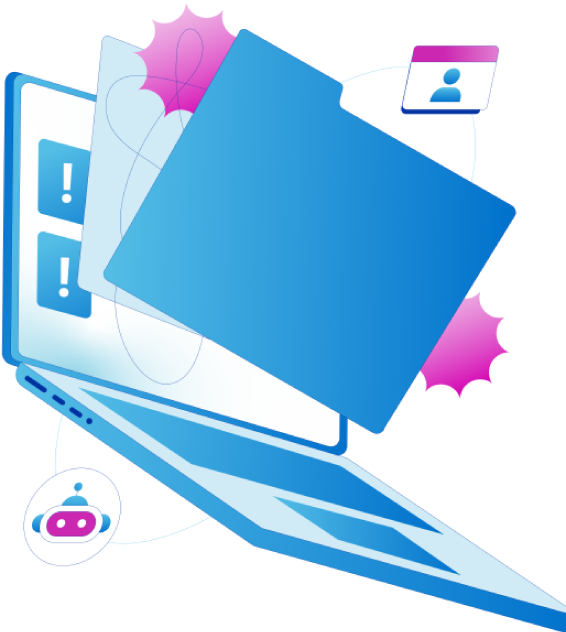
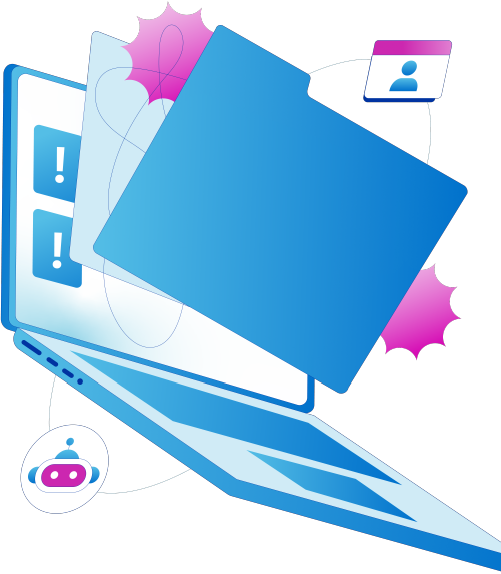
Update question photos

diff --git a/quiz-data.js b/quiz-data.js
@@ -13,7 +13,7 @@ const questions = [
     {
         id: 1,
         stage: 1,
-        img: `<img src="assets/sidSailPoint-inheritedChaos.png" style="max-width:572px"/>`,
+        img: `<img src="assets/sidSailPoint-inheritedChaos.png" style="max-width:510px"/>`,
         eyeBrow: 'inherited chaos',
         scenario: `
         <h3 class="poppins-semibold">Scenario</h3>
@@ -52,7 +52,7 @@ const questions = [
     {
         id: 2,
         stage: 2,
-        img: `<img src="assets/sidsailpoint-trustedpartner.png"/>`,
+        img: `<img src="assets/sidsailpoint-trustedpartner.png" style="max-width:566px"/>`,
         eyeBrow: 'Trusted partner turned competitor',
         scenario: `
         <h3 class="poppins-semibold">Scenario</h3>
@@ -132,7 +132,7 @@ This morning, they issued a press release announcing a product that directly com
     {
         id: 4,
         stage: 4,
-        img: `<img src="assets/sidsailpoint-identity.png"/>`,
+        img: `<img src="assets/sidsailpoint-identity.png" style="max-width:460px"/>`,
         eyeBrow: 'Identity loop',
         scenario: `
         <h3 class="poppins-semibold">Scenario</h3>

diff --git a/styles.css b/styles.css
@@ -533,8 +533,8 @@ header {
     /* box-shadow: 0 0 1px rgba(0, 0, 0, 0); */
     -webkit-animation-name: hvr-pulse-shrink;
     animation-name: hvr-pulse-shrink;
-    -webkit-animation-duration: 0.3s;
-    animation-duration: 1s;
+    -webkit-animation-duration: 2s;
+    animation-duration: 2s;
     -webkit-animation-timing-function: linear;
     animation-timing-function: linear;
     -webkit-animation-iteration-count: infinite;
@@ -1131,7 +1131,7 @@ line-height: 120%;
 #scenario-page #scenario-img {
     /* max-width: 500px; */
     
-        max-width: 572px; /* smaller */
+       /* max-width: 572px;  smaller */
     /* width: 100%; */ /* smaller */
     /* margin-top: 50px; */ /* smaller */
     position: relative;

diff --git a/responsive.css b/responsive.css
@@ -29,14 +29,14 @@
 
 @-webkit-keyframes hvr-pulse-shrink {
   to {
-    -webkit-transform: scale(0.9);
-    transform: scale(0.9);
+    -webkit-transform: scale(0.95);
+    transform: scale(0.95);
   }
 }
 @keyframes hvr-pulse-shrink {
   to {
-    -webkit-transform: scale(0.9);
-    transform: scale(0.9);
+    -webkit-transform: scale(0.95);
+    transform: scale(0.95);
   }
 }
 
